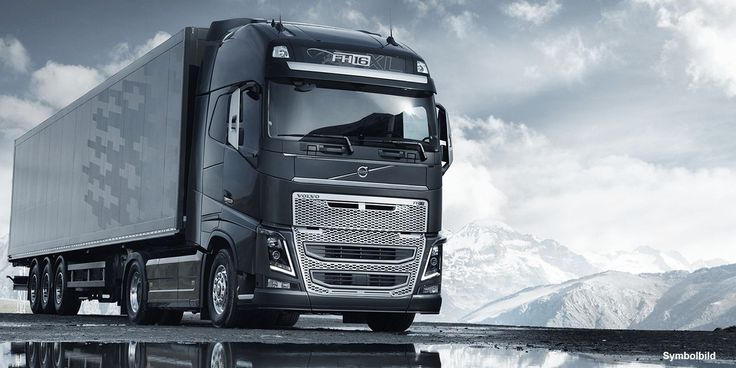
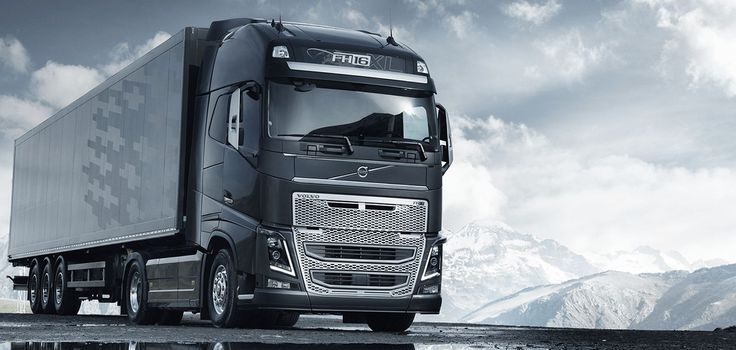
added new img

diff --git a/templates/index.html b/templates/index.html
@@ -13,7 +13,7 @@ DTS Insurance Services Inc.
         <div class="carousel-inner ">
             <div class="carousel-item active">
                 {% comment %} <img class="w-100 hero-img" src="{% static 'img/truck1.jpg' %}" alt="Image"> {% endcomment %}
-                <img class=" img-fluid hero-img" style="height: 80% !important; width: 100% !important; max-height: 600px !important;" src="{% static 'img/truck/truckblack.jpg' %}" alt="Image">
+                <img class=" img-fluid hero-img" style="height: 80% !important;min-height: 255px !important; width: 100% !important; max-height: 600px !important;" src="{% static 'img/truck/truckblack.jpg' %}" alt="Image">
                 <div class="carousel-caption d-flex flex-column align-items-center justify-content-center">
                     <div class="p-3" style="max-width: 800px;">
                         {% comment %} <h4 class="text-light  text-uppercase font-weight-normal mb-md-3"></h4> {% endcomment %}
@@ -27,7 +27,8 @@ DTS Insurance Services Inc.
                 </div>
             </div>
             <div class="carousel-item">
-                <img class="w-100 hero-img" src="{% static 'img/golden-bridge1.jpg' %}" alt="Image">
+                <!-- <img class="w-100 hero-img" src="{% static 'img/golden-bridge1.jpg' %}" alt="Image"> -->
+                <img class=" img-fluid hero-img" style="height: 80% !important;  width: 100% !important; max-height: 600px !important;     object-fit: cover;" src="{% static 'img/truck/newtruck2.jpg' %}" alt="Image">
                 <div class="carousel-caption d-flex flex-column align-items-center justify-content-center">
                     <div class="p-3" style="max-width: 800px;">
                         <h4 class="text-light text-uppercase font-weight-normal mb-md-3">Best Inurance Provider</h4>
